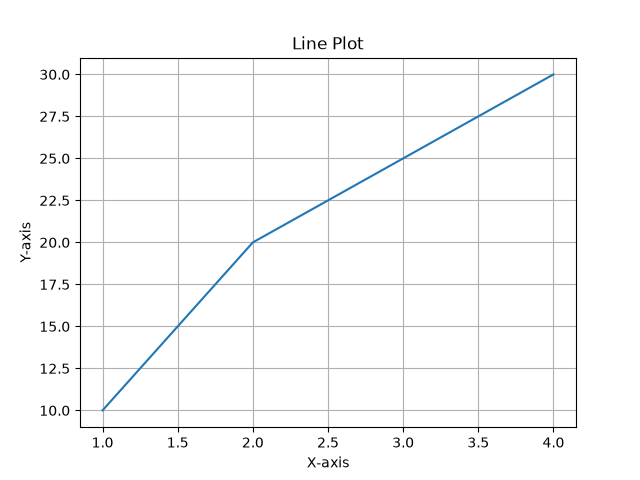
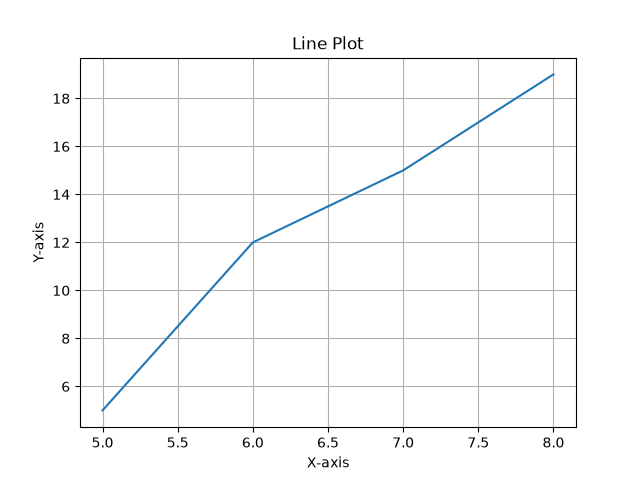
Updated experiments

diff --git a/exp4.B.py b/exp4.B.py
@@ -1,0 +1,31 @@
+import pandas as pd
+# Create hierarchical index
+index = pd.MultiIndex.from_tuples(
+    [
+        ('Engineering', 'Civil'),
+        ('Engineering', 'EEE'),
+        ('Mathematics','Algebra'),
+        ('Mathematics','Calculs'),
+        ('Science', 'Physics'),
+        ('Science', 'Chemistry')
+    ],
+    names=['Department', 'Branch']
+)
+# Create tabular data
+data = pd.DataFrame(
+    {
+        '2025': [85, 78, 90, 95, 92, 88],
+        '2026': [90, 82, 88, 96, 95, 91]
+    },
+    index=index
+)
+print("Original Tabular Data:")
+print(data)
+# Unstack the inner level
+unstacked_data = data.unstack()
+print("\nData after Unstack():")
+print(unstacked_data)
+# Stack the data back
+stacked_data = unstacked_data.stack()
+print("\nData after Stack():")
+print(stacked_data)

diff --git a/exp4.A.py b/exp4.A.py
@@ -1,0 +1,27 @@
+import pandas as pd
+# Create a list of lists for hierarchical index
+index = [
+    ['Engineering', 'Engineering', 'Science', 'Science'],
+    ['CSE', 'Ds', 'chemistry', 'Physics']
+]
+# Create MultiIndex
+multi_index = pd.MultiIndex.from_arrays(
+    index,
+    names=['Department', 'Branch']
+)
+# Create a Series using the hierarchical index
+marks = pd.Series(
+    [95, 93, 92, 94],
+    index=multi_index
+)
+print("Original Series:")
+print(marks)
+# Partial indexing at the outer level
+print("\nData for Engineering:")
+print(marks.loc['Engineering'])
+# Partial indexing at the inner level
+print("\nData for CSE:")
+print(marks.loc[('Engineering', 'CSE')])
+# Selecting a subset using both levels
+print("\nData for Science:")
+print(marks.loc['Science'])

diff --git a/exp5.b.py b/exp5.b.py
@@ -1,6 +1,6 @@
 import pandas as pd
 import matplotlib.pyplot as plt
-df=pd.DataFrame({'Category':['A','B','C'],'values':[10,20,15]})
+df=pd.DataFrame({'Category':['A','B','C'],'values':[10,12,15]})
 df.plot(kind='bar',x='Category',y='values')
 plt.title("Bar plot")
 plt.show()

diff --git a/exp5.a.py b/exp5.a.py
@@ -1,6 +1,6 @@
 import matplotlib.pyplot as plt
-x=[1,2,3,4]
-y=[10,20,25,30]
+x=[5,6,7,8]
+y=[5,12,15,19]
 plt.plot(x,y)
 plt.title("Line Plot")
 plt.xlabel("X-axis")

diff --git a/exp5.c.py b/exp5.c.py
@@ -5,3 +5,4 @@ data=np.random.randn(1000)
 sns.histplot(data,kde=True)
 plt.title("Histgram and Density")
 plt.show()
+``
